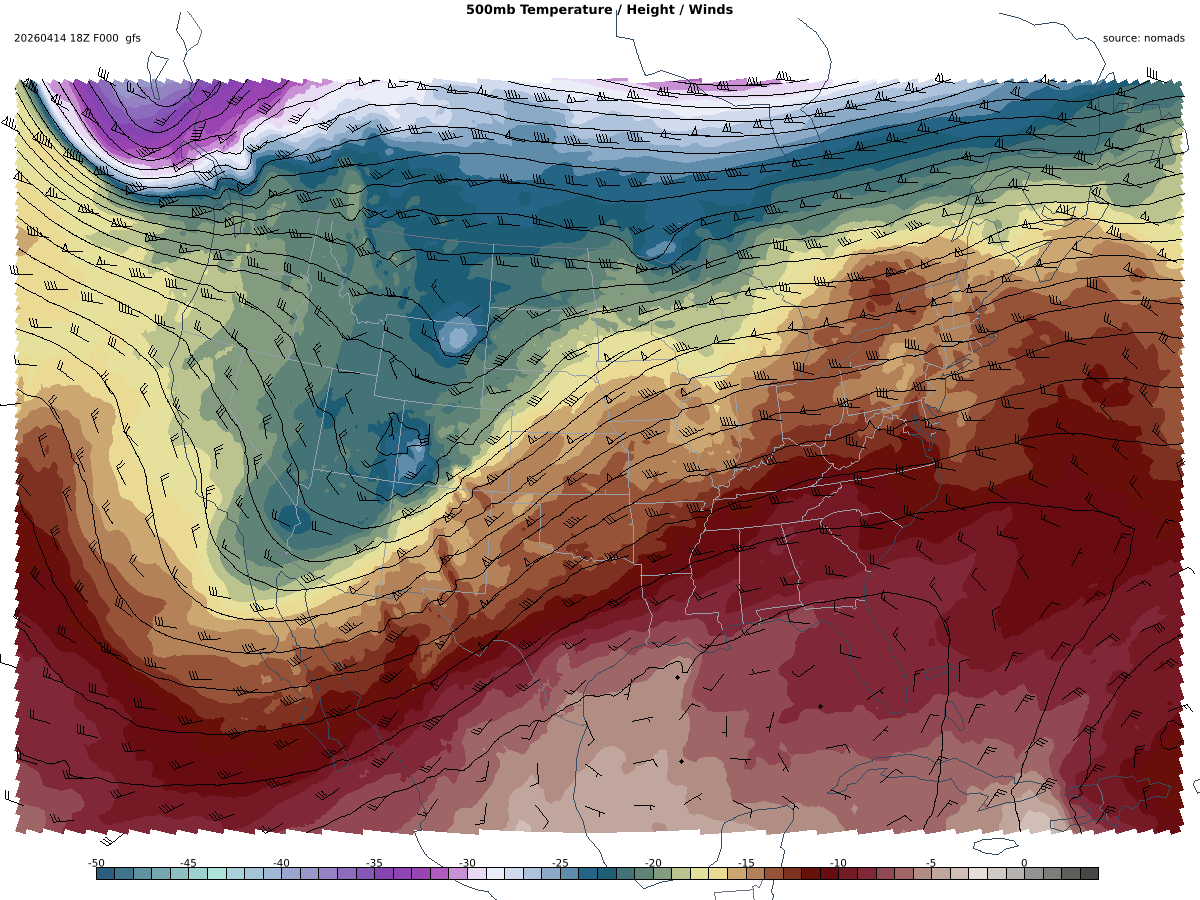
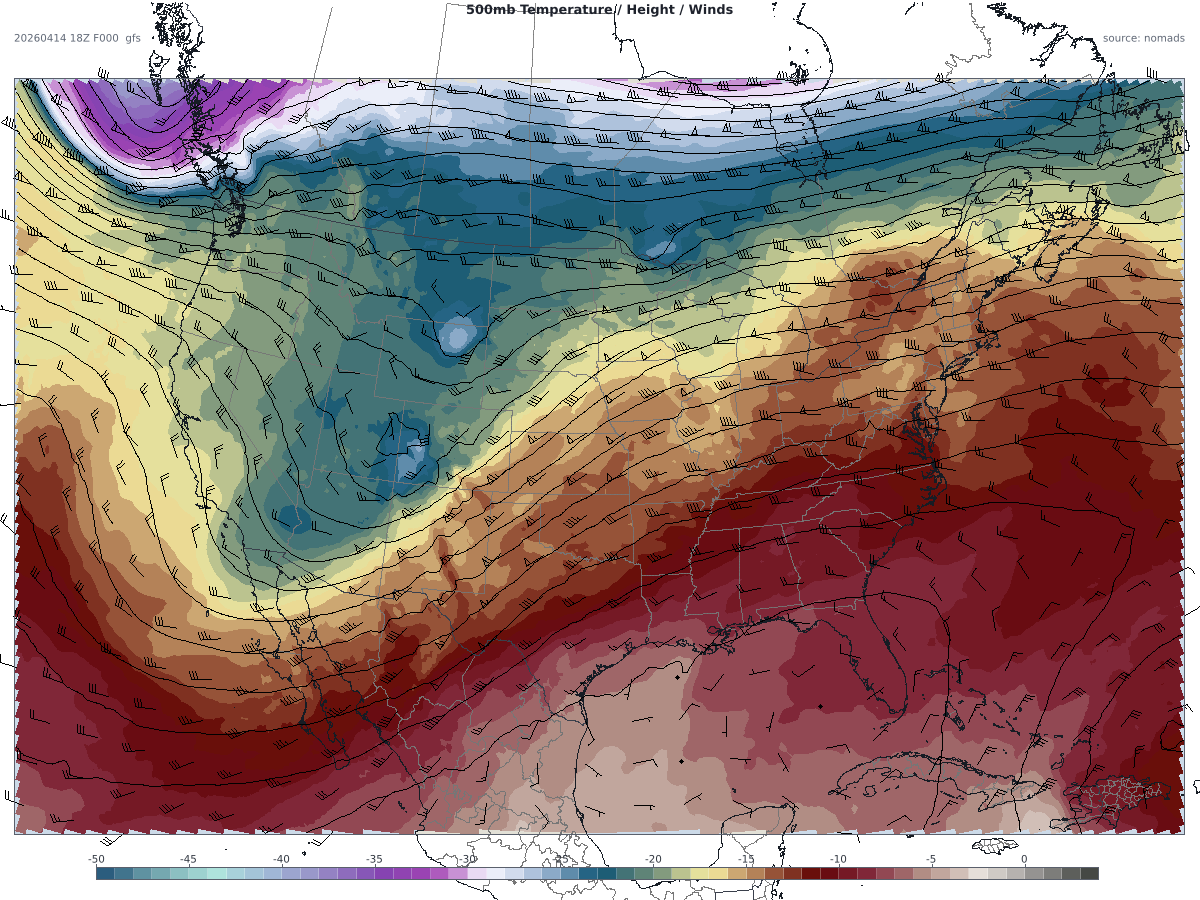
Wire filled polygons into product-pipeline renders
Follow-up to the render-crate basemap primitives (1b303ef): project
basemap polygons alongside coastlines once per map and hand them to
every lane renderer so operational outputs actually show the filled
ocean/land beneath the data.

- `ProjectedMap` now carries `polygons: Vec<ProjectedPolygonFill>`
  alongside the existing coastline `lines`. `build_projected_map`
  pulls ocean/land rings from `wrf_render::features::load_styled
  _conus_polygons_for`, projects them, and bbox-filters against the
  map extent once per (bounds, target_ratio) pair.
- Threaded through `direct.rs` / `shared_context.rs` / `derived.rs`
  / `windowed.rs` / `plot_recipe_proof.rs` so every lane's
  `MapRenderRequest.projected_polygons` is populated from the
  shared projected map.
- Turned on `mask_below` for reflectivity (5 dBZ), QPF (0.25 mm),
  lightning (0.5 flash/km²/min) scales: no-data cells are
  transparent so the basemap reads through. Matches NWS radar
  semantics.
- Continuous fields (MSLP, 500 mb T, etc.) keep their full-coverage
  behavior — the basemap is intentionally hidden under them.

Real proofs rendered against cached GRIB2:
- HRRR composite reflectivity (CONUS): beige land + pale ocean +
  echoes masked to 5 dBZ.
- RRFS-A composite reflectivity (midwest): same look.
- GFS 500 mb temperature/height/winds (CONUS): full-coverage
  upper-air; basemap intentionally hidden.
- GFS MSLP + 10 m wind barbs (CONUS).

Known debt: `plot_recipe_proof.rs` has its own `scale_for_recipe`
[…]

diff --git a/crates/rustwx-products/src/direct.rs b/crates/rustwx-products/src/direct.rs
@@ -14,7 +14,7 @@ use rustwx_models::{
 use rustwx_render::{
     Color, ColorScale, ContourLayer, DiscreteColorScale, ExtendMode, MapRenderRequest,
     PanelGridLayout, PanelPadding, ProjectedDomain, ProjectedExtent, ProjectedLineOverlay,
-    WindBarbLayer, render_panel_grid, save_png,
+    ProjectedPolygonFill, WindBarbLayer, render_panel_grid, save_png,
     solar07::{Solar07Palette, solar07_palette},
 };
 use serde::{Deserialize, Serialize};
@@ -24,7 +24,7 @@ use std::path::PathBuf;
 use std::sync::{Arc, Mutex};
 use std::thread;
 use std::time::Instant;
-use wrf_render::features::load_styled_conus_features;
+use wrf_render::features::{load_styled_conus_features, load_styled_conus_polygons};
 use wrf_render::overlay::MapExtent;
 use wrf_render::projection::LambertConformal;
 use wrf_render::render::map_frame_aspect_ratio;
@@ -939,6 +939,7 @@ fn build_render_request(
         extent: projected.extent,
     });
     request.projected_lines = projected.lines;
+    request.projected_polygons = projected.polygons;
     if overlay_only {
         request
             .contours
@@ -1021,7 +1022,9 @@ fn scale_for_recipe(recipe: &PlotRecipe, filled_selector: FieldSelector) -> Colo
                 levels: range_step(5.0, 80.0, 5.0),
                 colors: solar07_palette(Solar07Palette::Reflectivity),
                 extend: ExtendMode::Both,
-                mask_below: None,
+                // Mask clear-air cells (<5 dBZ) so the basemap shows through —
+                // matches how NWS/NOAA radar products render.
+                mask_below: Some(5.0),
             }
         }
         RenderStyle::Solar07Rh => DiscreteColorScale {
@@ -1070,7 +1073,8 @@ fn scale_for_recipe(recipe: &PlotRecipe, filled_selector: FieldSelector) -> Colo
             levels: range_step(0.0, 100.0, 5.0),
             colors: solar07_palette(Solar07Palette::Precip),
             extend: ExtendMode::Max,
-            mask_below: None,
+            // Reveal basemap where no precipitation has accumulated.
+            mask_below: Some(0.25),
         },
         RenderStyle::Solar07Categorical => DiscreteColorScale {
             levels: vec![0.0, 0.5, 1.0],
@@ -1097,7 +1101,8 @@ fn scale_for_recipe(recipe: &PlotRecipe, filled_selector: FieldSelector) -> Colo
             levels: range_step(0.0, 20.5, 0.5),
             colors: solar07_palette(Solar07Palette::Uh),
             extend: ExtendMode::Max,
-            mask_below: None,
+            // Reveal basemap where there are no flashes.
+            mask_below: Some(0.5),
         },
         _ => DiscreteColorScale {
             levels: range_step(-50.0, 5.0, 1.0),
@@ -1318,6 +1323,38 @@ pub fn build_projected_map(
         }
     }
 
+    // Project the filled basemap polygons (ocean → land → lakes) once per
+    // map, filtered by bbox-overlap so global rings that can't possibly be
+    // visible (e.g. Southern Ocean rings when the frame is CONUS) are dropped
+    // before they reach the scanline fill. The render-side clip keeps any
+    // survivors inside the map panel.
+    let pad_x = 0.50 * (extent.x_max - extent.x_min);
+    let pad_y = 0.50 * (extent.y_max - extent.y_min);
+    let accept_bbox = (
+        extent.x_min - pad_x,
+        extent.x_max + pad_x,
+        extent.y_min - pad_y,
+        extent.y_max + pad_y,
+    );
+    let mut polygons: Vec<ProjectedPolygonFill> = Vec::new();
+    for layer in load_styled_conus_polygons() {
+        let color = Color::rgba(layer.color.r, layer.color.g, layer.color.b, layer.color.a);
+        for polygon in layer.polygons {
+            let rings: Vec<Vec<(f64, f64)>> = polygon
+                .into_iter()
+                .map(|ring| {
+                    ring.into_iter()
+                        .map(|(lon, lat)| proj.project(lat, lon))
+                        .collect::<Vec<(f64, f64)>>()
+                })
+                .filter(|ring| ring_overlaps_bbox(ring, accept_bbox))
+                .collect();
+            if !rings.is_empty() {
+                polygons.push(ProjectedPolygonFill { rings, color });
+            }
+        }
+    }
+
     Ok(ProjectedMap {
         projected_x,
         projected_y,
@@ -1328,7 +1365,28 @@ pub fn build_projected_map(
             y_max: extent.y_max,
         },
         lines,
+        polygons,
     })
+}
+
+fn ring_overlaps_bbox(ring: &[(f64, f64)], bbox: (f64, f64, f64, f64)) -> bool {
+    let (mut rx_min, mut rx_max) = (f64::INFINITY, f64::NEG_INFINITY);
+    let (mut ry_min, mut ry_max) = (f64::INFINITY, f64::NEG_INFINITY);
+    for &(x, y) in ring {
+        if x < rx_min {
+            rx_min = x;
+        }
+        if x > rx_max {
+            rx_max = x;
+        }
+        if y < ry_min {
+            ry_min = y;
+        }
+        if y > ry_max {
+            ry_max = y;
+        }
+    }
+    !(rx_max < bbox.0 || rx_min > bbox.1 || ry_max < bbox.2 || ry_min > bbox.3)
 }
 
 fn range_step(start: f64, stop: f64, step: f64) -> Vec<f64> {

diff --git a/crates/rustwx-cli/src/bin/plot_recipe_proof.rs b/crates/rustwx-cli/src/bin/plot_recipe_proof.rs
@@ -18,11 +18,11 @@ use rustwx_models::{ModelError, PlotRecipe, plot_recipe, plot_recipe_fetch_plan}
 use rustwx_products::cache::{default_proof_cache_dir, ensure_dir};
 use rustwx_render::{
     Color, ColorScale, ContourLayer, DiscreteColorScale, ExtendMode, MapRenderRequest,
-    ProjectedDomain, ProjectedExtent, ProjectedLineOverlay, WindBarbLayer, save_png,
-    solar07::Solar07Palette, solar07::solar07_palette,
+    ProjectedDomain, ProjectedExtent, ProjectedLineOverlay, ProjectedPolygonFill, WindBarbLayer,
+    save_png, solar07::Solar07Palette, solar07::solar07_palette,
 };
 use serde_json::json;
-use wrf_render::features::load_styled_conus_features;
+use wrf_render::features::{load_styled_conus_features, load_styled_conus_polygons};
 use wrf_render::overlay::MapExtent;
 use wrf_render::projection::LambertConformal;
 use wrf_render::render::map_frame_aspect_ratio;
@@ -78,6 +78,7 @@ struct ProjectedMap {
     y: Vec<f64>,
     extent: ProjectedExtent,
     lines: Vec<ProjectedLineOverlay>,
+    polygons: Vec<ProjectedPolygonFill>,
 }
 
 fn main() -> Result<(), Box<dyn std::error::Error>> {
@@ -274,6 +275,7 @@ fn build_render_request(
         extent: projected.extent,
     });
     request.projected_lines = projected.lines;
+    request.projected_polygons = projected.polygons;
     request.contours = build_contour_layers(recipe, extracted);
     request.wind_barbs = build_barb_layers(recipe, extracted, region);
     request
@@ -331,7 +333,7 @@ fn scale_for_recipe(recipe: &PlotRecipe, filled_selector: FieldSelector) -> Colo
             levels: range_step(5.0, 80.0, 5.0),
             colors: solar07_palette(Solar07Palette::Reflectivity),
             extend: ExtendMode::Both,
-            mask_below: None,
+            mask_below: Some(5.0),
         },
         rustwx_models::RenderStyle::Solar07Rh => DiscreteColorScale {
             levels: range_step(0.0, 105.0, 5.0),
@@ -508,6 +510,33 @@ fn build_projected_map(
         }
     }
 
+    let pad_x = 0.50 * (extent.x_max - extent.x_min);
+    let pad_y = 0.50 * (extent.y_max - extent.y_min);
+    let accept_bbox = (
+        extent.x_min - pad_x,
+        extent.x_max + pad_x,
+        extent.y_min - pad_y,
+        extent.y_max + pad_y,
+    );
+    let mut polygons: Vec<ProjectedPolygonFill> = Vec::new();
+    for layer in load_styled_conus_polygons() {
+        let color = Color::rgba(layer.color.r, layer.color.g, layer.color.b, layer.color.a);
+        for polygon in layer.polygons {
+            let rings: Vec<Vec<(f64, f64)>> = polygon
+                .into_iter()
+                .map(|ring| {
+                    ring.into_iter()
+                        .map(|(lon, lat)| proj.project(lat, lon))
+                        .collect::<Vec<(f64, f64)>>()
+                })
+                .filter(|ring| ring_overlaps_bbox(ring, accept_bbox))
+                .collect();
+            if !rings.is_empty() {
+                polygons.push(ProjectedPolygonFill { rings, color });
+            }
+        }
+    }
+
     Ok(ProjectedMap {
         x: projected_x,
         y: projected_y,
@@ -518,7 +547,28 @@ fn build_projected_map(
             y_max: extent.y_max,
         },
         lines,
+        polygons,
     })
+}
+
+fn ring_overlaps_bbox(ring: &[(f64, f64)], bbox: (f64, f64, f64, f64)) -> bool {
+    let (mut rx_min, mut rx_max) = (f64::INFINITY, f64::NEG_INFINITY);
+    let (mut ry_min, mut ry_max) = (f64::INFINITY, f64::NEG_INFINITY);
+    for &(x, y) in ring {
+        if x < rx_min {
+            rx_min = x;
+        }
+        if x > rx_max {
+            rx_max = x;
+        }
+        if y < ry_min {
+            ry_min = y;
+        }
+        if y > ry_max {
+            ry_max = y;
+        }
+    }
+    !(rx_max < bbox.0 || rx_min > bbox.1 || ry_max < bbox.2 || ry_min > bbox.3)
 }
 
 fn range_step(start: f64, stop: f64, step: f64) -> Vec<f64> {

diff --git a/crates/rustwx-products/src/shared_context.rs b/crates/rustwx-products/src/shared_context.rs
@@ -2,7 +2,7 @@ use image::DynamicImage;
 use rustwx_core::{Field2D, LatLonGrid, ProductKey};
 use rustwx_render::{
     MapRenderRequest, PanelGridLayout, PanelPadding, ProjectedDomain, ProjectedExtent,
-    ProjectedLineOverlay, Solar07Product, render_panel_grid,
+    ProjectedLineOverlay, ProjectedPolygonFill, Solar07Product, render_panel_grid,
 };
 use serde::{Deserialize, Serialize};
 use std::collections::HashMap;
@@ -32,6 +32,9 @@ pub struct ProjectedMap {
     pub projected_y: Vec<f64>,
     pub extent: ProjectedExtent,
     pub lines: Vec<ProjectedLineOverlay>,
+    /// Filled basemap polygons (ocean → land → lakes). Drawn under the data
+    /// raster so every product render gets a proper land/ocean substrate.
+    pub polygons: Vec<ProjectedPolygonFill>,
 }
 
 #[derive(Debug, Clone, Default)]
@@ -172,6 +175,7 @@ pub fn render_two_by_four_solar07_panel(
             extent: projected.extent.clone(),
         });
         request.projected_lines = projected.lines.clone();
+        request.projected_polygons = projected.polygons.clone();
         requests.push(request);
     }
 
@@ -216,6 +220,7 @@ mod tests {
                     y_max: 1.0,
                 },
                 lines: Vec::new(),
+                polygons: Vec::new(),
             },
         );
         assert!(context.contains_size(700, 520));

diff --git a/crates/rustwx-products/src/windowed.rs b/crates/rustwx-products/src/windowed.rs
@@ -463,6 +463,7 @@ pub(crate) fn run_hrrr_windowed_batch_with_context(
                         extent: projected.extent.clone(),
                     });
                     render_request.projected_lines = projected.lines.clone();
+                    render_request.projected_polygons = projected.polygons.clone();
                     save_png(&render_request, &output_path).map_err(thread_windowed_error)?;
                     let render_ms = render_start.elapsed().as_millis();
 

diff --git a/crates/rustwx-products/src/derived.rs b/crates/rustwx-products/src/derived.rs
@@ -1497,6 +1497,7 @@ fn build_render_artifact(
         extent: projected.extent.clone(),
     });
     request.projected_lines = projected.lines.clone();
+    request.projected_polygons = projected.polygons.clone();
     if matches!(recipe, DerivedRecipe::ThetaE2m10mWinds) {
         let u_kt = computed_surface_u10(computed, recipe)?;
         let v_kt = computed_surface_v10(computed, recipe)?;
